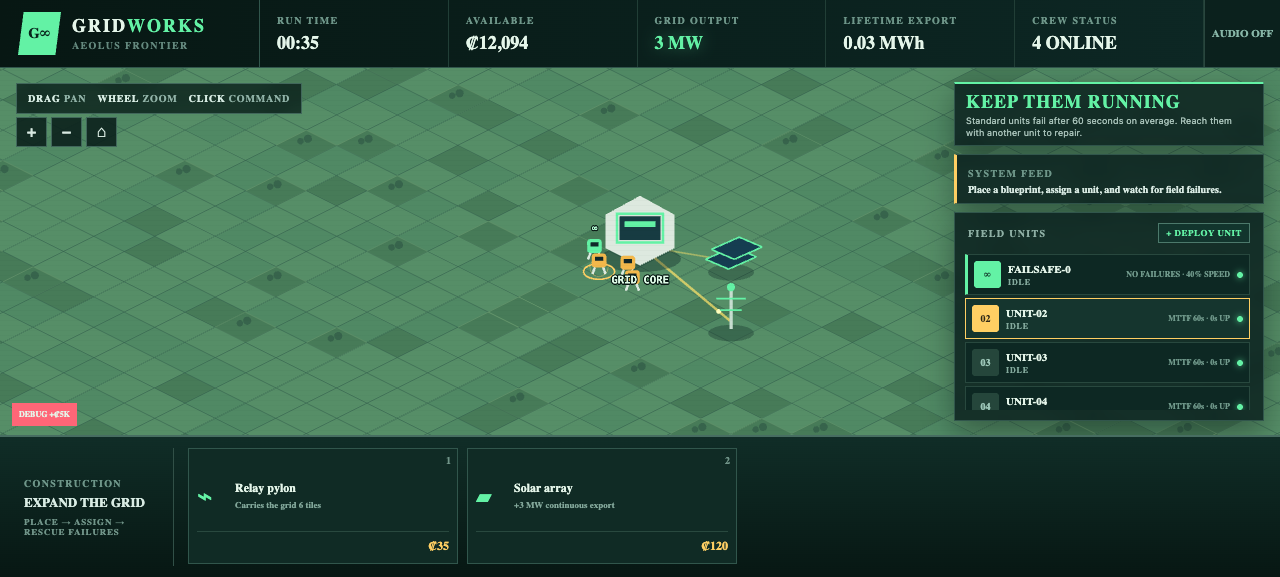
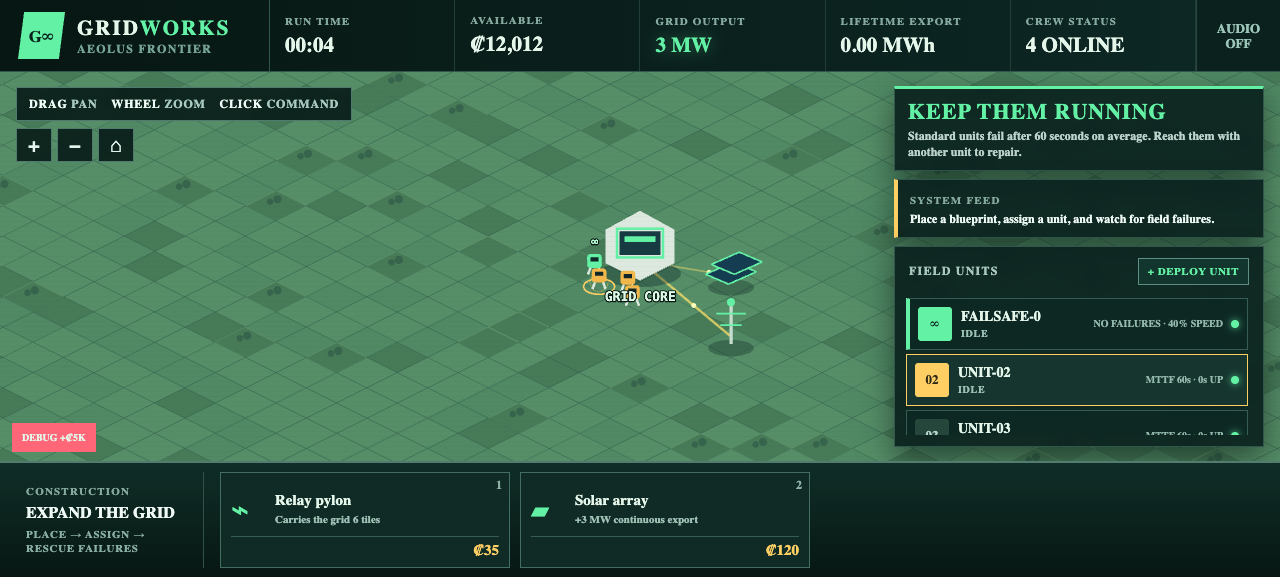
Improve interface readability and placement feedback

diff --git a/energy/src/styles.css b/energy/src/styles.css
@@ -1,11 +1,11 @@
 @import url('https://fonts.googleapis.com/css2?family=Chakra+Petch:wght@400;600;700&family=Inter:wght@400;600;800&display=swap');
 
-:root{font-family:Inter,system-ui,sans-serif;color:#e5f6ea;background:#071714;font-synthesis:none;--mint:#63f2a5;--gold:#ffcf63;--red:#ff6677;--panel:#0a211edb;--line:#31564c}*{box-sizing:border-box}body{margin:0;overflow:hidden}button{font:inherit;color:inherit}main{height:100vh;display:grid;grid-template-rows:68px minmax(0,1fr) 142px;background:#071714}header{display:flex;align-items:stretch;background:linear-gradient(90deg,#071713,#0d2825);border-bottom:1px solid var(--line);z-index:10}.brand{width:260px;display:flex;align-items:center;padding:0 18px;border-right:1px solid var(--line)}.brand-mark{width:43px;height:43px;display:grid;place-items:center;background:var(--mint);clip-path:polygon(13% 0,100% 0,87% 100%,0 100%);color:#08231b;font:800 15px 'Chakra Petch'}.brand div{padding-left:11px}.brand b{font:700 18px 'Chakra Petch';letter-spacing:2px}.brand b span{color:var(--mint)}.brand small{display:block;margin-top:2px;color:#64897e;font:700 10px 'Chakra Petch';letter-spacing:1.35px}.topstats{display:flex;flex:1}.topstats>div{display:flex;min-width:116px;flex:1;flex-direction:column;justify-content:center;padding:0 17px;border-right:1px solid #213e36}.topstats small,.mission-card small,.system-feed small,.panel-title,.unit-card small,.deck-heading small{color:#6e9689;font:700 10px 'Chakra Petch';letter-spacing:1.35px}.topstats b{margin-top:5px;white-space:nowrap;font:600 18px 'Chakra Petch'}.topstats .glow b{color:var(--mint);text-shadow:0 0 15px #63f2a555}.topstats .hot b{color:var(--red)}.audio{width:76px;border:0;border-left:1px solid #29463e;background:#0b211d;color:#88b7a8;font:700 11px 'Chakra Petch';cursor:pointer}.audio:hover{color:var(--mint)}
+:root{font-family:Inter,system-ui,sans-serif;color:#e5f6ea;background:#071714;font-size:16px;font-synthesis:none;--mint:#63f2a5;--gold:#ffcf63;--red:#ff6677;--panel:#0a211deb;--line:#31564c}*{box-sizing:border-box}body{margin:0;overflow:hidden}button{font:inherit;color:inherit}main{height:100vh;display:grid;grid-template-rows:72px minmax(0,1fr) 116px;background:#071714}header{display:flex;align-items:stretch;background:linear-gradient(90deg,#071713,#0d2825);border-bottom:1px solid var(--line);z-index:10}.brand{width:270px;display:flex;align-items:center;padding:0 18px;border-right:1px solid var(--line)}.brand-mark{width:47px;height:47px;display:grid;place-items:center;background:var(--mint);clip-path:polygon(13% 0,100% 0,87% 100%,0 100%);color:#08231b;font:800 17px 'Chakra Petch'}.brand div{padding-left:12px}.brand b{font:700 21px 'Chakra Petch';letter-spacing:2px}.brand b span{color:var(--mint)}.brand small{display:block;margin-top:2px;color:#77a496;font:700 12px 'Chakra Petch';letter-spacing:1.3px}.topstats{display:flex;flex:1}.topstats>div{display:flex;min-width:120px;flex:1;flex-direction:column;justify-content:center;padding:0 15px;border-right:1px solid #213e36}.topstats small,.mission-card small,.system-feed small,.panel-title,.unit-card small,.deck-heading small{color:#86aa9f;font:700 11px 'Chakra Petch';letter-spacing:1.2px}.topstats b{margin-top:5px;white-space:nowrap;font:700 21px 'Chakra Petch'}.topstats .glow b{color:var(--mint);text-shadow:0 0 15px #63f2a555}.topstats .hot b{color:var(--red)}.audio{width:84px;border:0;border-left:1px solid #29463e;background:#0b211d;color:#9bc5b8;font:700 13px 'Chakra Petch';cursor:pointer}.audio:hover{color:var(--mint)}
 
-.playfield{position:relative;min-height:0;overflow:hidden}.phaser-world{position:absolute;inset:0}.playfield canvas{width:100%;height:100%;display:block}.scanlines{position:absolute;inset:0;pointer-events:none;background:repeating-linear-gradient(0deg,transparent 0 4px,rgba(3,18,15,.045) 5px)}.camera-help{position:absolute;left:16px;top:15px;padding:8px 11px;background:#071b17c7;border:1px solid #41675b;color:#91b3a8;font:700 10px 'Chakra Petch';letter-spacing:.8px;pointer-events:none;backdrop-filter:blur(4px)}.camera-help b{color:#d9eee5;margin-left:8px}.camera-help b:first-child{margin-left:0}.camera-controls{position:absolute;left:16px;top:49px;display:flex;gap:4px}.camera-controls button{width:31px;height:30px;border:1px solid #41675b;background:#071b17d9;color:#d8e9e1;cursor:pointer;font:700 16px 'Chakra Petch'}.camera-controls button:hover{border-color:var(--mint);color:var(--mint)}
+.playfield{position:relative;min-height:0;overflow:hidden}.phaser-world{position:absolute;inset:0}.playfield canvas{width:100%;height:100%;display:block}.scanlines{position:absolute;inset:0;pointer-events:none;background:repeating-linear-gradient(0deg,transparent 0 4px,rgba(3,18,15,.045) 5px)}.camera-help{position:absolute;left:16px;top:15px;padding:9px 12px;background:#071b17e6;border:1px solid #527b70;color:#a9cbc0;font:700 12px 'Chakra Petch';letter-spacing:.8px;pointer-events:none;backdrop-filter:blur(4px)}.camera-help b{color:#f0fff8;margin-left:10px}.camera-help b:first-child{margin-left:0}.camera-controls{position:absolute;left:16px;top:56px;display:flex;gap:5px}.camera-controls button{width:36px;height:34px;border:1px solid #527b70;background:#071b17e8;color:#e7f8f0;cursor:pointer;font:700 20px 'Chakra Petch'}.camera-controls button:hover{border-color:var(--mint);color:var(--mint)}
 
-.right-panel{position:absolute;right:16px;top:14px;bottom:14px;width:310px;display:flex;flex-direction:column;gap:8px;pointer-events:none}.right-panel>*{pointer-events:auto}.mission-card,.system-feed,.roster,.unit-card{background:var(--panel);border:1px solid var(--line);box-shadow:0 12px 32px #03100d66;backdrop-filter:blur(6px)}.mission-card{padding:7px 11px;border-top:2px solid var(--mint)}.mission-card>small{display:none}.mission-card h2{margin:0 0 2px;color:var(--mint);font:700 18px 'Chakra Petch';letter-spacing:1px}.mission-card p{margin:0;color:#a7c1b8;font-size:9px;line-height:1.3}.mission-card>div{display:none;gap:16px;margin-top:5px;padding-top:4px;border-top:1px solid #29483e;color:#86aa9f;font:700 8px 'Chakra Petch';letter-spacing:.6px}.mission-card>div b{color:#e4f5ec;font-size:9px;margin-left:3px}.system-feed{padding:7px 11px;border-left:3px solid var(--gold)}.system-feed.critical{border-left-color:var(--red);animation:alarm 1.15s infinite}.system-feed p{margin:3px 0 0;color:#dbece5;font:600 10px/1.3 'Chakra Petch'}.roster{min-height:0;padding:10px;display:flex;flex:1;flex-direction:column}.panel-title{display:flex;align-items:center;justify-content:space-between;padding:0 3px 8px}.panel-title span{color:#8eafa4}.panel-title button{padding:4px 7px;border:1px solid #4c796b;background:#12352d;color:var(--mint);font:700 9px 'Chakra Petch';letter-spacing:.5px;cursor:pointer}.panel-title button:hover{border-color:var(--mint);background:#1a4438}.roster-scroll{min-height:0;overflow-y:auto;padding-right:3px}.roster-scroll>button{position:relative;width:100%;height:41px;display:flex;align-items:center;margin-top:3px;padding:3px 6px;border:1px solid #28483e;background:#0d2823;text-align:left;cursor:pointer}.roster-scroll>button:hover,.roster-scroll>button.selected{border-color:var(--gold);background:#15352e}.roster-scroll>button.stalled{border-color:#7a3940}.roster-scroll>button.reliable{border-left:3px solid var(--mint)}.roster-scroll>button>i{display:grid;place-items:center;width:27px;height:27px;flex:0 0 auto;margin-right:7px;border-radius:3px;background:#25463b;color:#9dc7b8;font:normal 700 10px 'Chakra Petch'}.roster-scroll>button.selected>i{background:var(--gold);color:#2e2817}.roster-scroll>button.reliable>i{background:var(--mint);color:#103025}.roster-scroll>button.stalled>i{background:var(--red);color:white}.roster button span{display:flex;flex-direction:column}.roster button span b{font:700 11px 'Chakra Petch'}.roster button span small{margin-top:2px;color:#83a99c;font:700 8px 'Chakra Petch';letter-spacing:.8px}.roster button strong{margin-left:auto;color:#70998b;font:700 8px 'Chakra Petch';white-space:nowrap}.roster button em{width:6px;height:6px;margin-left:7px;border-radius:50%;background:var(--mint);box-shadow:0 0 7px #63f2a5}.roster button.stalled em{background:var(--red);box-shadow:0 0 7px #ff6677}.unit-card{padding:11px 13px}.unit-card>div{display:flex;align-items:center;justify-content:space-between}.unit-card>div b{font:700 14px 'Chakra Petch';color:var(--gold)}.unit-card p{margin:7px 0 0;color:#9bb8ae;font-size:11px;line-height:1.45}.unit-card.stalled{border-color:#8c4148}
+.right-panel{position:absolute;right:16px;top:14px;bottom:14px;width:370px;display:flex;flex-direction:column;gap:8px;pointer-events:none}.right-panel>*{pointer-events:auto}.mission-card,.system-feed,.roster{background:var(--panel);border:1px solid var(--line);box-shadow:0 12px 32px #03100d88;backdrop-filter:blur(6px)}.mission-card{padding:10px 13px;border-top:3px solid var(--mint)}.mission-card>small{display:none}.mission-card h2{margin:0 0 3px;color:var(--mint);font:700 22px 'Chakra Petch';letter-spacing:1px}.mission-card p{margin:0;color:#bdd4cc;font:600 12px/1.35 'Chakra Petch'}.system-feed{padding:9px 12px;border-left:4px solid var(--gold)}.system-feed.critical{border-left-color:var(--red);animation:alarm 1.15s infinite}.system-feed p{margin:4px 0 0;color:#effbf6;font:600 12px/1.35 'Chakra Petch'}.roster{min-height:0;padding:11px;display:flex;flex:1;flex-direction:column}.panel-title{display:flex;align-items:center;justify-content:space-between;padding:0 3px 9px}.panel-title span{color:#a9c9bf;font-size:12px}.panel-title button{padding:6px 9px;border:1px solid #5e8e80;background:#12352d;color:var(--mint);font:700 11px 'Chakra Petch';letter-spacing:.5px;cursor:pointer}.panel-title button:hover{border-color:var(--mint);background:#1a4438}.roster-scroll{min-height:0;overflow-y:auto;padding-right:4px}.roster-scroll>button{position:relative;width:100%;height:52px;display:flex;align-items:center;margin-top:4px;padding:5px 8px;border:1px solid #355d52;background:#0d2823;text-align:left;cursor:pointer}.roster-scroll>button:hover,.roster-scroll>button.selected{border-color:var(--gold);background:#15352e}.roster-scroll>button.stalled{border-color:#a94a55}.roster-scroll>button.reliable{border-left:4px solid var(--mint)}.roster-scroll>button>i{display:grid;place-items:center;width:34px;height:34px;flex:0 0 auto;margin-right:9px;border-radius:3px;background:#25463b;color:#b8d7cd;font:normal 700 13px 'Chakra Petch'}.roster-scroll>button.selected>i{background:var(--gold);color:#2e2817}.roster-scroll>button.reliable>i{background:var(--mint);color:#103025}.roster-scroll>button.stalled>i{background:var(--red);color:white}.roster button span{display:flex;flex-direction:column}.roster button span b{font:700 14px 'Chakra Petch'}.roster button span small{margin-top:2px;color:#9bc0b4;font:700 10px 'Chakra Petch';letter-spacing:.7px}.roster button strong{margin-left:auto;color:#93b8ac;font:700 10px 'Chakra Petch';white-space:nowrap}.roster button em{width:8px;height:8px;margin-left:8px;border-radius:50%;background:var(--mint);box-shadow:0 0 8px #63f2a5}.roster button.stalled em{background:var(--red);box-shadow:0 0 8px #ff6677}
 
-.command-deck{position:relative;z-index:8;display:flex;gap:14px;padding:11px 14px;background:linear-gradient(#102d27,#071713);border-top:2px solid #476d61}.deck-heading{width:160px;display:flex;flex-direction:column;justify-content:center;padding:0 10px;border-right:1px solid #315047}.deck-heading b{margin:5px 0;color:#d9ece4;font:700 13px/1.3 'Chakra Petch'}.deck-heading span{color:#719589;font:700 9px 'Chakra Petch';letter-spacing:.8px}.build-list{display:grid;grid-template-columns:repeat(2,minmax(190px,270px));align-content:stretch;gap:9px;flex:1}.build-list button{position:relative;min-width:0;height:116px;display:grid;grid-template-columns:38px 1fr;grid-template-rows:1fr auto;padding:13px 8px 9px;border:1px solid #31564c;background:#102b25;text-align:left;cursor:pointer;transition:.14s}.build-list button:hover,.build-list button.active{border-color:var(--gold);background:#173a31;transform:translateY(-2px)}.build-list button.active:after{content:'';position:absolute;left:0;right:0;top:0;height:3px;background:var(--gold);box-shadow:0 0 12px #ffcf63}.build-list button.expensive strong{color:#8c6c60}.build-list button kbd{position:absolute;right:6px;top:5px;color:#719589;font:700 10px 'Chakra Petch'}.build-list button>i{align-self:center;color:var(--mint);font:normal 26px 'Chakra Petch'}.build-list button>span{display:flex;min-width:0;align-self:center;flex-direction:column}.build-list button>span b{font:700 12px 'Chakra Petch';white-space:nowrap}.build-list button>span small{margin-top:5px;color:#82a79a;font:600 9px/1.3 'Chakra Petch'}.build-list button>strong{grid-column:1/3;padding-top:7px;border-top:1px solid #29493f;color:var(--gold);font:700 12px 'Chakra Petch';text-align:right}.debug-cash{position:fixed;left:12px;bottom:151px;z-index:20;padding:7px;border:0;background:var(--red);font:700 8px 'Chakra Petch';cursor:pointer}@keyframes alarm{50%{box-shadow:0 0 20px #ff667744}}
+.command-deck{position:relative;z-index:8;display:flex;gap:16px;padding:9px 14px;background:linear-gradient(#102d27,#071713);border-top:2px solid #527c70}.deck-heading{width:190px;display:flex;flex-direction:column;justify-content:center;padding:0 12px;border-right:1px solid #315047}.deck-heading b{margin:5px 0;color:#effaf5;font:700 16px/1.25 'Chakra Petch'}.deck-heading span{color:#8aafa3;font:700 11px/1.25 'Chakra Petch';letter-spacing:.7px}.build-list{display:grid;grid-template-columns:repeat(2,minmax(220px,290px));align-content:stretch;gap:10px;flex:1}.build-list button{position:relative;min-width:0;height:96px;display:grid;grid-template-columns:44px 1fr;grid-template-rows:1fr auto;padding:11px 10px 8px;border:1px solid #426d61;background:#102b25;text-align:left;cursor:pointer;transition:.14s}.build-list button:hover,.build-list button.active{border-color:var(--gold);background:#173a31;transform:translateY(-2px)}.build-list button.active:after{content:'';position:absolute;left:0;right:0;top:0;height:4px;background:var(--gold);box-shadow:0 0 12px #ffcf63}.build-list button.expensive strong{color:#a67d70}.build-list button kbd{position:absolute;right:7px;top:5px;color:#8fb2a7;font:700 12px 'Chakra Petch'}.build-list button>i{align-self:center;color:var(--mint);font:normal 30px 'Chakra Petch'}.build-list button>span{display:flex;min-width:0;align-self:center;flex-direction:column}.build-list button>span b{font:700 15px 'Chakra Petch';white-space:nowrap}.build-list button>span small{margin-top:4px;color:#a0c1b6;font:600 11px/1.3 'Chakra Petch'}.build-list button>strong{grid-column:1/3;padding-top:5px;border-top:1px solid #365d52;color:var(--gold);font:700 15px 'Chakra Petch';text-align:right}.debug-cash{position:fixed;left:12px;bottom:125px;z-index:20;padding:8px 10px;border:0;background:var(--red);font:700 10px 'Chakra Petch';cursor:pointer}@keyframes alarm{50%{box-shadow:0 0 20px #ff667744}}
 
-@media(max-width:1050px){main{grid-template-rows:58px minmax(0,1fr) 150px}.brand{width:190px;padding:0 10px}.brand-mark{width:37px;height:37px}.topstats>div{min-width:85px;padding:0 9px}.topstats>div:nth-last-child(-n+2){display:none}.right-panel{width:270px;right:8px;top:8px;bottom:8px}.mission-card{padding:10px}.mission-card p{display:none}.mission-card>div{margin-top:5px}.build-list{grid-template-columns:repeat(2,minmax(140px,220px))}.build-list button{height:auto;min-height:74px;padding:7px;grid-template-columns:31px 1fr}.build-list button>i{font-size:20px}.build-list button>span small{display:none}.deck-heading{width:125px}.roster-scroll>button{height:42px}.roster button strong{display:none}.unit-card{display:none}}
+@media(max-width:1050px){main{grid-template-rows:64px minmax(0,1fr) 126px}.brand{width:205px;padding:0 10px}.brand-mark{width:41px;height:41px}.brand b{font-size:18px}.brand small{font-size:10px}.topstats>div{min-width:92px;padding:0 9px}.topstats small{font-size:10px}.topstats b{font-size:18px}.topstats>div:nth-last-child(-n+2){display:none}.right-panel{width:320px;right:8px;top:8px;bottom:8px}.mission-card{padding:8px 10px}.mission-card h2{font-size:19px}.mission-card p{font-size:11px}.build-list{grid-template-columns:repeat(2,minmax(160px,230px))}.build-list button{height:auto;min-height:92px;padding:8px;grid-template-columns:38px 1fr}.build-list button>i{font-size:25px}.build-list button>span small{font-size:10px}.deck-heading{width:155px}.roster button strong{display:none}}

diff --git a/energy/src/WorldCanvas.tsx b/energy/src/WorldCanvas.tsx
@@ -124,7 +124,7 @@ class FrontierScene extends Phaser.Scene {
     graphics.strokePath()
   }
 
-  text(x: number, y: number, value: string, size = 13, color = '#dffbe7') {
+  text(x: number, y: number, value: string, size = 16, color = '#dffbe7') {
     const label = this.add.text(x, y, value, {
       fontFamily: 'Chakra Petch, monospace', fontSize: `${size}px`, fontStyle: 'bold', color,
       stroke: '#081914', strokeThickness: 3,
@@ -148,7 +148,7 @@ class FrontierScene extends Phaser.Scene {
       graphics.fillRect(x - 25, y + 11, 50, 5)
       graphics.fillStyle(0xffcf63, 1)
       graphics.fillRect(x - 24, y + 12, 48 * building.progress, 3)
-      this.text(x, y - 48, building.status === 'blueprint' ? 'ASSIGN ROBOT' : `${Math.floor(building.progress * 100)}%`, 12, '#ffdc86')
+      this.text(x, y - 50, building.status === 'blueprint' ? 'ASSIGN UNIT' : `${Math.floor(building.progress * 100)}%`, 15, '#ffdc86')
       return
     }
 
@@ -178,7 +178,7 @@ class FrontierScene extends Phaser.Scene {
       }
     }
 
-    if (!online && building.type !== 'pylon') this.text(x, y - 67, 'OFF GRID', 12, '#ff6677')
+    if (!online && building.type !== 'pylon') this.text(x, y - 69, 'OFF GRID', 15, '#ff6677')
   }
 
   drawRobot(worker: GameState['workers'][number], selected: boolean, time: number) {
@@ -200,8 +200,8 @@ class FrontierScene extends Phaser.Scene {
       graphics.lineStyle(2, worker.status === 'rescuing' ? 0x63f2a5 : 0xffdf88, .9)
       graphics.lineBetween(point.x + 9, point.y - 8, point.x + 20, point.y - 17 + Math.sin(time * 9) * 4)
     }
-    if (worker.reliable) this.text(point.x, point.y - 31, '∞', 11, '#baffd8')
-    if (worker.status === 'stalled') this.text(point.x, point.y - 34, '!', 20, '#ff6677')
+    if (worker.reliable) this.text(point.x, point.y - 32, '∞', 14, '#baffd8')
+    if (worker.status === 'stalled') this.text(point.x, point.y - 36, '!', 24, '#ff6677')
   }
 
   draw() {
@@ -257,7 +257,7 @@ class FrontierScene extends Phaser.Scene {
     graphics.fillStyle(0x173b42, 1); graphics.fillRect(hq.x - 25, hq.y - 43, 50, 29)
     graphics.fillStyle(0x63f2a5, 1); graphics.fillRect(hq.x - 19, hq.y - 37, 38, 7)
     graphics.lineStyle(3, 0x63f2a5, 1); graphics.strokeRect(hq.x - 28, hq.y - 46, 56, 35)
-    this.text(hq.x, hq.y + 34, 'GRID CORE', 13)
+    this.text(hq.x, hq.y + 37, 'GRID CORE', 16)
 
     for (const worker of state.workers) {
       if (worker.rescueId === null) continue
@@ -274,9 +274,21 @@ class FrontierScene extends Phaser.Scene {
     const sortedWorkers = [...state.workers].sort((a, b) => (a.x + a.y) - (b.x + b.y))
     sortedWorkers.forEach(worker => this.drawRobot(worker, worker.id === state.selectedWorker, state.elapsed))
 
+    const placementError = state.placementError
+    if (placementError && state.elapsed < placementError.until) {
+      const point = iso(placementError.x, placementError.y)
+      const pulse = 1 + Math.sin(state.elapsed * 12) * .12
+      this.diamond(point.x, point.y, 0x591f29, 0xff6677, .82)
+      graphics.lineStyle(4, 0xff6677, 1)
+      graphics.lineBetween(point.x - 18, point.y - 10, point.x + 18, point.y + 10)
+      graphics.lineBetween(point.x + 18, point.y - 10, point.x - 18, point.y + 10)
+      graphics.strokeEllipse(point.x, point.y, 70 * pulse, 35 * pulse)
+      this.text(point.x, point.y - 42, `✕ ${placementError.message}`, 17, '#ff8a96')
+    }
+
     if (state.buildMode) {
       const spec = BUILDINGS[state.buildMode]
-      this.text(hq.x, hq.y + 53, `${spec.name.toUpperCase()} PLACEMENT ACTIVE`, 12, '#ffdc86')
+      this.text(hq.x, hq.y + 57, `${spec.name.toUpperCase()} PLACEMENT ACTIVE`, 15, '#ffdc86')
       if (state.buildMode !== 'pylon') {
         graphics.lineStyle(1, 0x63f2a5, .12)
         graphics.strokeCircle(hq.x, hq.y, FACILITY_RANGE * TILE_W / 1.5)

diff --git a/energy/src/game.ts b/energy/src/game.ts
@@ -36,6 +36,7 @@ export type GameState = {
   totalEnergy: number
   generation: number
   buildMode: BuildingType | null
+  placementError: { x: number; y: number; message: string; until: number } | null
   selectedWorker: number | null
   buildings: Building[]
   workers: Worker[]
@@ -157,6 +158,7 @@ export function initialState(debug = false): GameState {
     totalEnergy: 0,
     generation: 3,
     buildMode: null,
+    placementError: null,
     selectedWorker: 2,
     buildings,
     workers: [makeWorker(1, true, 0), makeWorker(2, false, 1), makeWorker(3, false, 2), makeWorker(4, false, 3)],
@@ -181,11 +183,16 @@ export function addWorker(state: GameState): GameState {
 }
 
 export function placeBlueprint(state: GameState, type: BuildingType, x: number, y: number): GameState {
+  const reject = (message: string, toast: string): GameState => ({
+    ...state,
+    placementError: { x, y, message, until: state.elapsed + 4.5 },
+    toast,
+  })
   const cost = getBuildingCost(state, type)
-  if (state.cash < cost) return { ...state, toast: `Need ${formatCredits(cost)} for ${BUILDINGS[type].name}.` }
-  if (x < 1 || y < 1 || x >= WORLD_SIZE - 1 || y >= WORLD_SIZE - 1) return { ...state, toast: 'That site is outside the survey boundary.' }
+  if (state.cash < cost) return reject('INSUFFICIENT CREDITS', `Need ${formatCredits(cost)} for ${BUILDINGS[type].name}.`)
+  if (x < 1 || y < 1 || x >= WORLD_SIZE - 1 || y >= WORLD_SIZE - 1) return reject('OUTSIDE SURVEY AREA', 'That site is outside the survey boundary.')
   if (distance({ x, y }, HQ) < 2.2 || state.buildings.some(building => distance(building, { x, y }) < 1.5)) {
-    return { ...state, toast: 'Site obstructed — leave room around each structure.' }
+    return reject('SITE OBSTRUCTED', 'Site obstructed — leave room around each structure.')
   }
   const building: Building = { id: state.nextId, type, x, y, status: 'blueprint', progress: 0, connected: false, parentId: null }
   return {
@@ -193,6 +200,7 @@ export function placeBlueprint(state: GameState, type: BuildingType, x: number, 
     cash: state.cash - cost,
     buildings: [...state.buildings, building],
     nextId: state.nextId + 1,
+    placementError: null,
     toast: `${BUILDINGS[type].name} planned. Select a working unit, then click its blueprint.`,
   }
 }
@@ -348,6 +356,7 @@ export function stepGame(state: GameState, dt: number): GameState {
     cash: state.cash + income,
     totalEnergy: state.totalEnergy + generation * dt / 3600,
     generation,
+    placementError: state.placementError && state.elapsed + dt >= state.placementError.until ? null : state.placementError,
     buildings: networked,
     workers,
     toast,

diff --git a/energy/src/game.test.ts b/energy/src/game.test.ts
@@ -48,6 +48,12 @@ describe('unreliable robot energy operation', () => {
     expect(next.generation).toBe(3)
   })
 
+  test('rejected placement records an on-grid error marker', () => {
+    const state = placeBlueprint(initialState(), 'solar', 18, 18)
+    expect(state.placementError).toMatchObject({ x: 18, y: 18, message: 'SITE OBSTRUCTED' })
+    expect(state.placementError?.until).toBeGreaterThan(state.elapsed)
+  })
+
   test('robots must be assigned before blueprints are constructed', () => {
     let state = placeBlueprint(initialState(), 'pylon', 24, 19)
     const task = state.buildings.at(-1)!
